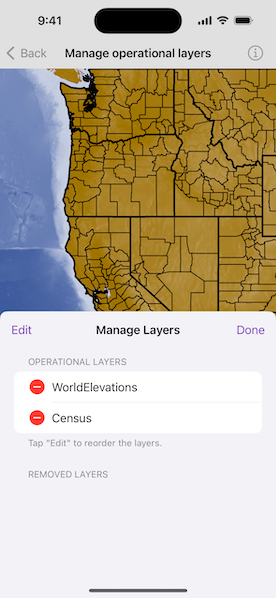
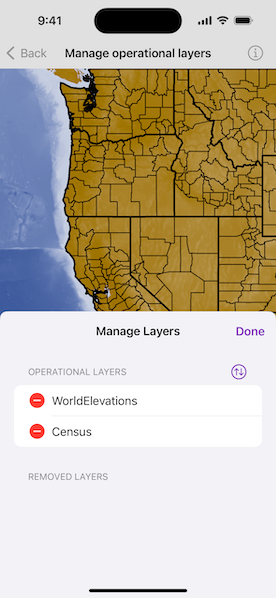
Update readme.

diff --git a/Shared/Samples/Manage operational layers/README.md b/Shared/Samples/Manage operational layers/README.md
@@ -9,18 +9,18 @@ Add, remove, and reorder operational layers in a map.
 
 Operational layers display the primary content of the map and usually provide dynamic content for the user to interact with (as opposed to basemap layers that provide context).
 
-The order of operational layers in a map determines the visual hierarchy of layers in the view. You can bring attention to a specific layer by rendering above other layers.
+The order of operational layers in a map determines the visual hierarchy of layers in the view. You can bring attention to a specific layer by rendering it above other layers.
 
 ## How to use the sample
 
-Tap the "Manage Layers" button to display the operational layers that are currently on the map. In the first section, tap the "-" button to remove a layer, or tap "Edit" to drag and reorder the layers. The map will be updated automatically.
+Tap the "Manage Layers" button to display the operational layers that are currently on the map. In the first section, tap the minus button to remove a layer or tap the swap button to change which layer is rendered on top. The map will update automatically.
 
-The second section shows layers that have been removed from the map. Tap the "+" button to add a layer back to the map.
+The second section shows layers that have been removed from the map. Tap the plus button to add a layer back to the map.
 
 ## How it works
 
 1. Get the operational layers from the map's `operationalLayers` property.
-2. Add a layer using `map.addOperationalLayer(newOperationalLayer:)` or remove a layer using `map.removeOperationalLayer(operationalLayer:)`. The last layer in the array will be rendered on top.
+2. Add a layer using `Map.addOperationalLayer(newOperationalLayer:)` or remove a layer using `Map.removeOperationalLayer(operationalLayer:)`. The last layer in the array will be rendered on top.
 
 ## Relevant API
 
@@ -29,7 +29,7 @@ The second section shows layers that have been removed from the map. Tap the "+"
 
 ## Additional information
 
-You cannot add the same layer to the map multiple times or add the same layer to multiple maps. Instead, clone the layer with `layer.clone()` to create a new instance.
+You cannot add the same layer to the map multiple times or add the same layer to multiple maps. Instead, clone the layer with `Layer.clone()` to create a new instance.
 
 ## Tags
 
